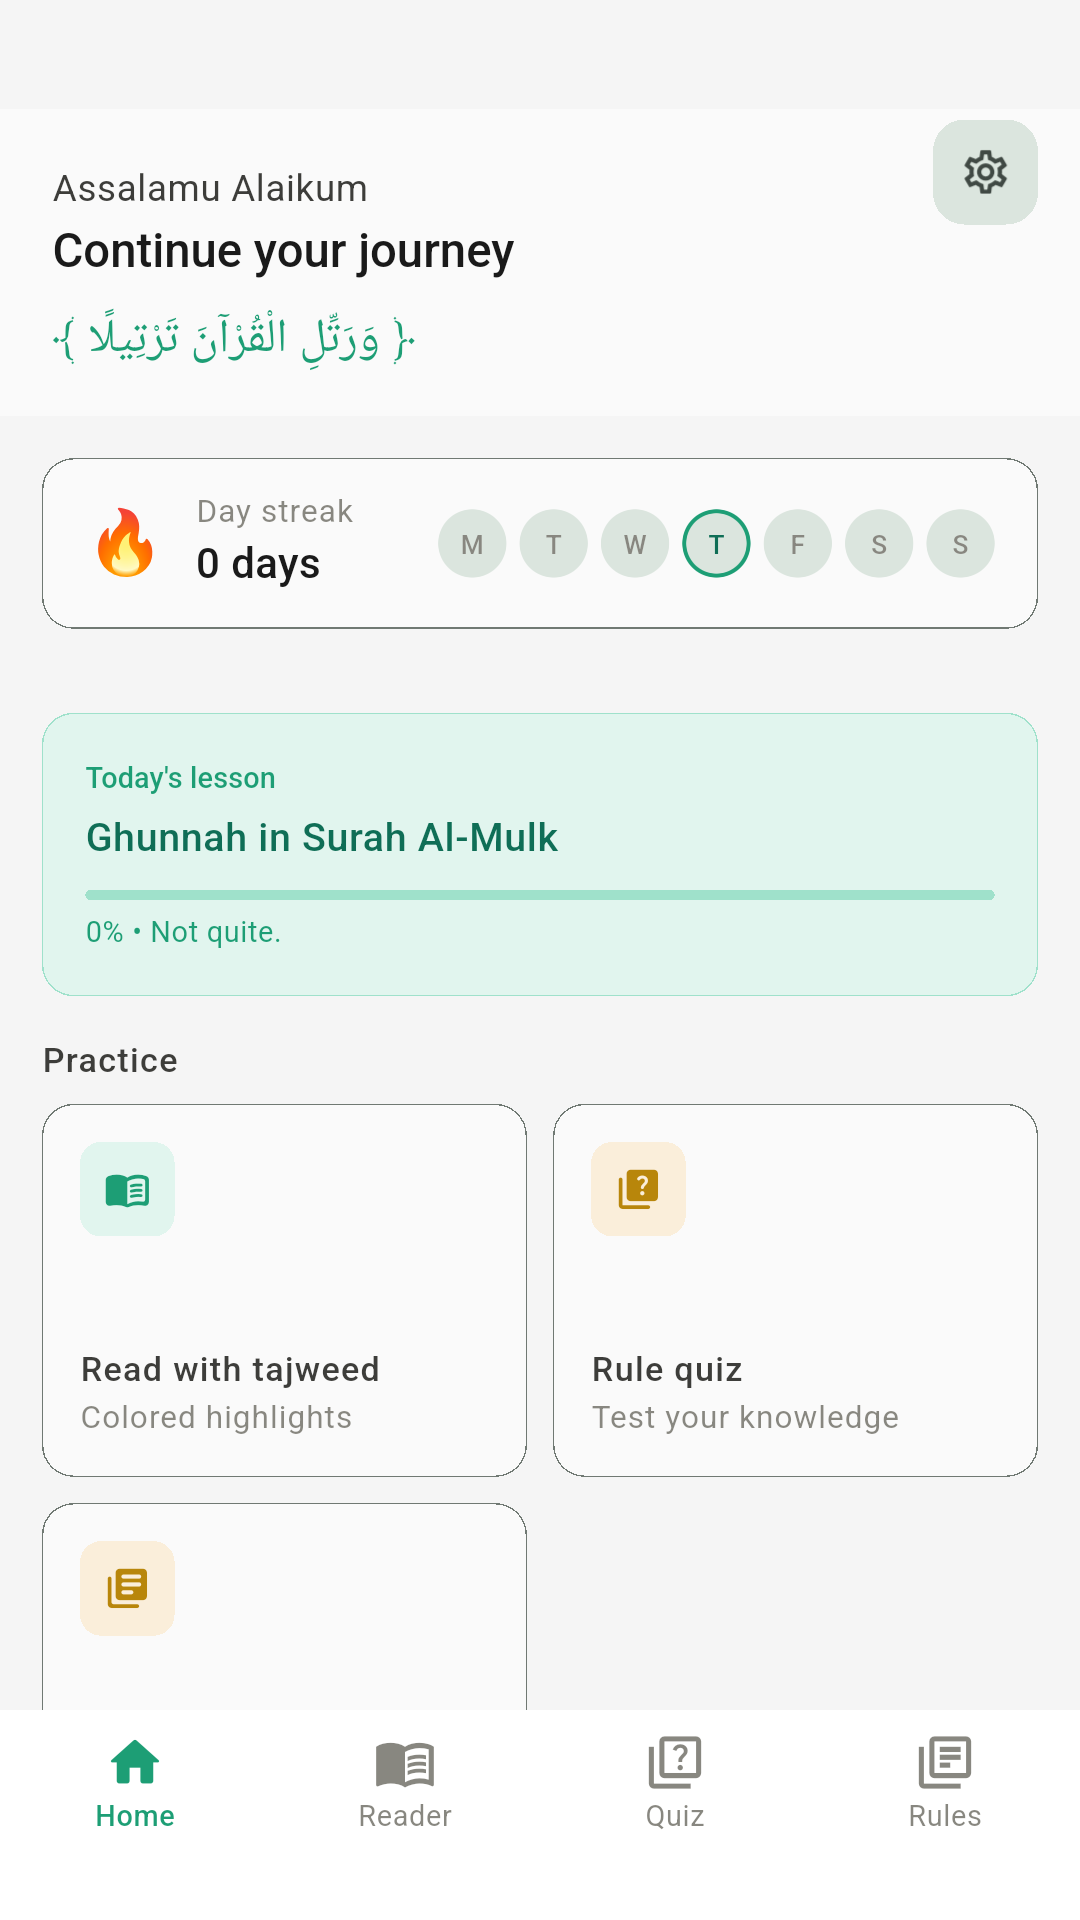
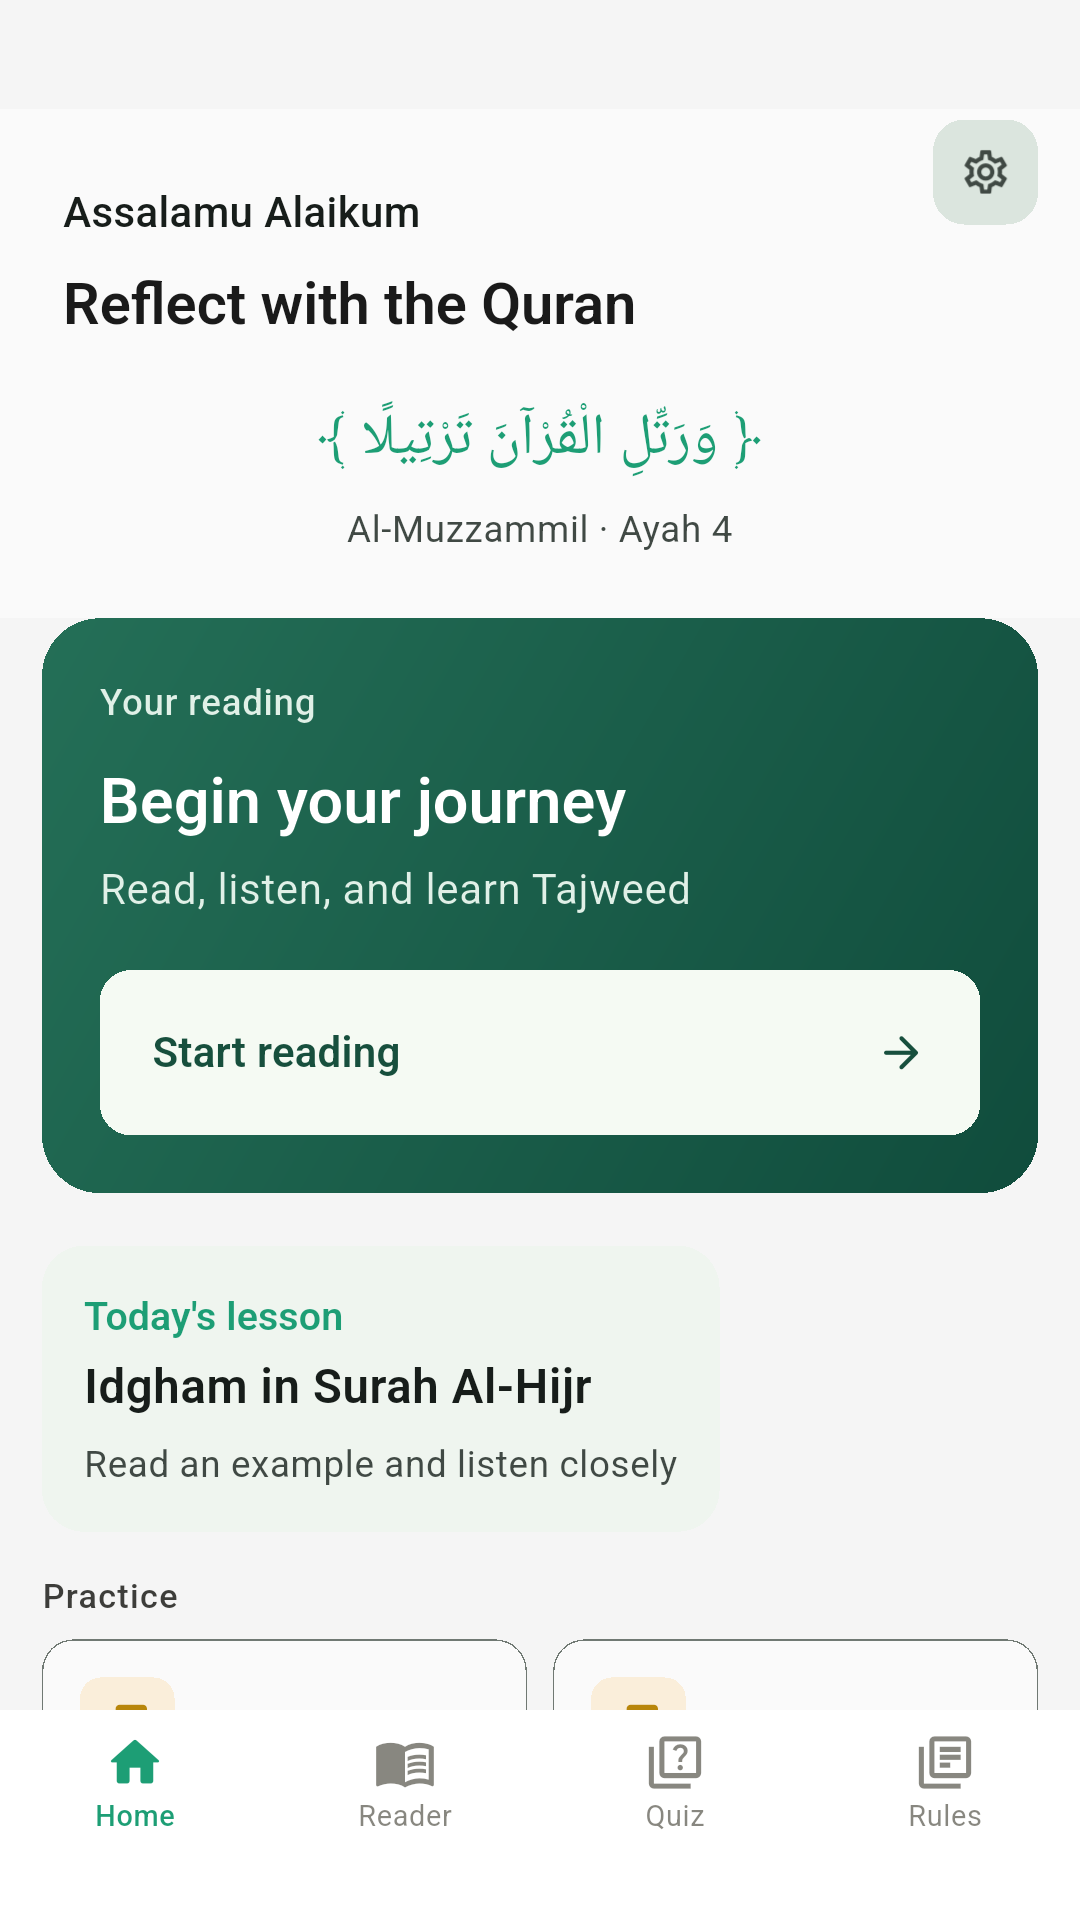
Prepare iOS and Android 1.1.15 build 88
Refresh the first Google Play screenshot in eight languages and record localized release notes covering all Android updates since build 76. Start Android on internal testing.

diff --git a/lib/core/constants/app_version.dart b/lib/core/constants/app_version.dart
@@ -4,4 +4,4 @@
 /// runtime, so it is a copy of the version declared there. Keep the two in
 /// step when releasing: `test/unit/app_version_test.dart` compares them and
 /// fails the build if they drift.
-const String appVersion = '1.1.14';
+const String appVersion = '1.1.15';

diff --git a/release/play/listing.md b/release/play/listing.md
@@ -114,7 +114,7 @@ deliberately avoids claiming it.
 Captions are optional on Play and are not overlaid on the uploaded images. Use
 these if promotional variants are produced later:
 
-1. Home and progress — "Build a consistent Quran practice"
+1. Refreshed Home — "Reflect with the Quran"
 2. Ayah reader — "Read with clear Tajweed guidance"
 3. Interactive word guidance — "Tap highlighted text to learn the rule"
 4. Mushaf view — "A focused 604-page reading experience"
@@ -126,12 +126,17 @@ these if promotional variants are produced later:
 ## Release notes (max 500)
 
 ```
-• Surahs you have already opened now appear straight away
-• Audio timings and page markers load in the background instead of holding up the text
-• The Tafsir list shows every source again, and offers Retry when it cannot load
-• Corrected the sakta example in the rules library to Al-Qiyamah 75:27
-• The sajdah quiz question now shows its verse, An-Najm 53:62
+• Refreshed Home with clearer reading actions, surah names, and localized numbers
+• Mushaf night mode and localized Tajweed controls
+• More precise Tajweed colors and complete cross-word rule examples
+• Improved Madd al-Farq organization and localized article sharing
+• Corrected stray markup in Quran text
 ```
 
-358 characters, within Play's 500 limit. The full-length App Store wording for
-all eight locales is in the session file `whatsnew_117.py`.
+Release **1.1.15 (88)** includes all updates since Android 1.1.10 (76).
+Localized release notes cover all eight listing languages and stay within
+Play's 500-character limit (`release-notes-1.1.15.json`). The first phone screenshot in each language shows
+the refreshed Home; the other seven screenshots remain unchanged.
+Start with internal testing; do not promote the binary to production until
+Play-installed testers verify Quran loading, the new Home, Mushaf night mode,
+and the As-Sajdah 32:3 markup correction.

diff --git a/release/play/README.md b/release/play/README.md
@@ -6,7 +6,13 @@ Generated assets for the Play Console listing of `com.ebaidllc.tajweed_practice`
 | --- | --- | --- |
 | `play-icon-512.png` | 512×512, 32-bit PNG, alpha allowed, ≤1024 KB | 512×512, 44 KB |
 | `play-feature-graphic-1024x500.png` | 1024×500, JPEG or 24-bit PNG, **no alpha** | 1024×500, no alpha, 58 KB |
-| `screenshots/*.png` | 2–8 per device type, 320–3840 px, **no alpha**, longest side ≤ 2× shortest | 8 files, 1080×1920 (1.78:1) |
+| `screenshots/*.png` | 2–8 per device type, 320–3840 px, **no alpha**, longest side ≤ 2× shortest | 8 English files, 1080×1920 (1.78:1) |
+| `screenshots/{ar,ur,tr,fr,id,de,es}/01-home.png` | Same phone screenshot requirements | Localized refreshed Home, 1080×1920 RGB |
+
+For 1.1.15 (88), replace only the first phone screenshot in each listing
+language. Keep the remaining seven images and their order unchanged. The
+Android binary starts on internal testing; production remains 1.1.10 (76).
+Store listing image changes are separate from the binary track.
 
 ## Regenerating
 
@@ -44,6 +50,12 @@ Captures land in `build/play-screenshots/` as 32-bit PNGs. Play rejects alpha
 on screenshots, so they are flattened to 24-bit RGB when copied here. The
 `08-settings` and `10-languages` captures are deliberately omitted — Play caps
 phone screenshots at 8 and those two are the weakest sells.
+
+For a Home-only refresh in all eight languages, use the same capture command
+with `--dart-define=HOME_ASSETS_ONLY=true` instead of `SCREENSHOT_LOCALE`.
+Convert the results to RGB without resizing. Let `flutter drive` run its
+dependency preparation: `--no-pub` after a release build can leave the Android
+integration-test plugin unregistered.
 
 ## Not generated here
 

diff --git a/release/app-store-listing.md b/release/app-store-listing.md
@@ -1,4 +1,4 @@
-# App Store listing — Tajweed 1.1.14
+# App Store listing — Tajweed 1.1.15
 
 ## App information
 
@@ -8,8 +8,8 @@
 - **Primary category:** Education
 - **Secondary category:** Reference
 - **Copyright:** © 2026 Ebaid LLC
-- **Version:** 1.1.14
-- **Build:** 87
+- **Version:** 1.1.15
+- **Build:** 88
 
 ## URLs
 
@@ -74,11 +74,15 @@ and is not an official Quran.Foundation, Quran.com, or QuranReflect app.
 
 ## What's New
 
+Corrects malformed upstream markup in Quran text so stray symbols no longer
+appear while reading As-Sajdah 32:3. Preserves Tajweed colors and checks the
+complete Quran corpus for markup artifacts.
+
+## Previous improvements retained
+
 Mushaf view now follows night mode, including its page background, text,
 headers, and reading controls. The Tajweed color controls and related Mushaf
 messages follow the selected app language, including Arabic.
-
-## Previous improvements retained
 
 A refreshed Home screen makes it easier to start or continue reading, with
 clearer text and surah names. Corrects tanween highlighting, including ikhfa,
@@ -98,8 +102,8 @@ inside their shared group rather than shown as a separate article card.
 All educational article details, including Core Recitation Rules and More
 Topics, offer localized text sharing with a correctly anchored iPad share sheet.
 
-This is an iOS-only release. Google Play remains on its existing 1.1.10 (76)
-submission; do not upload an Android build as part of this release.
+The Android 1.1.15 (88) release also includes all improvements since its
+previous production version, 1.1.10 (76). See `play/listing.md`.
 
 ## Screenshot set
 
